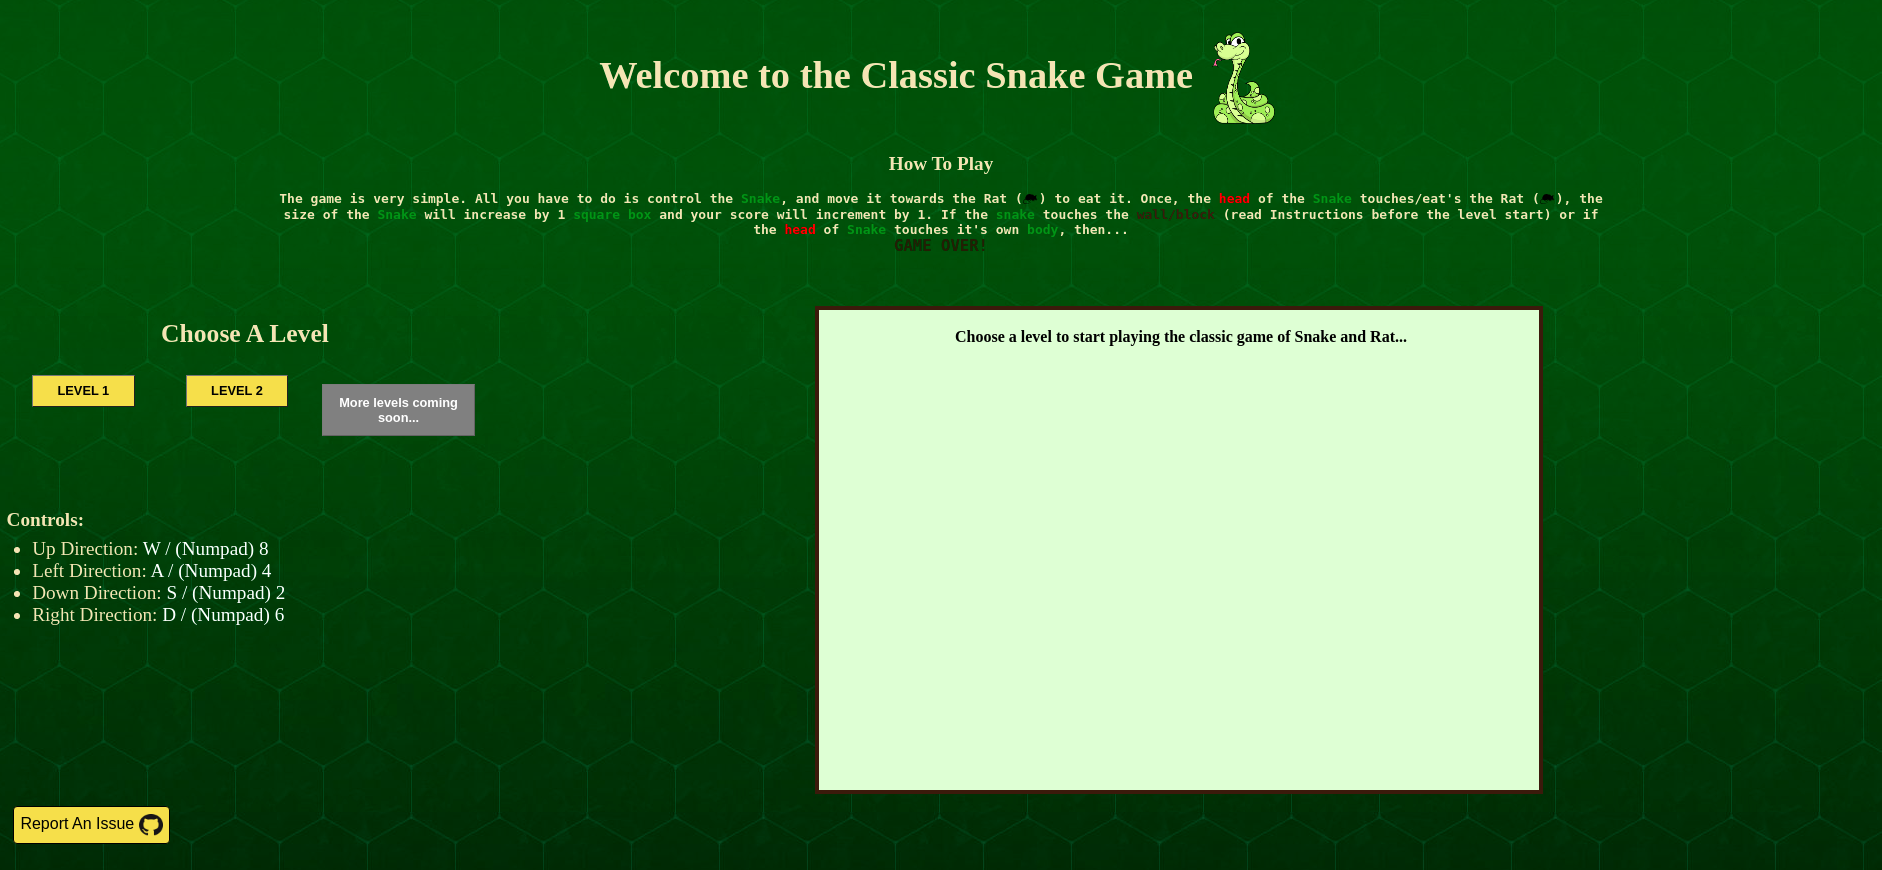
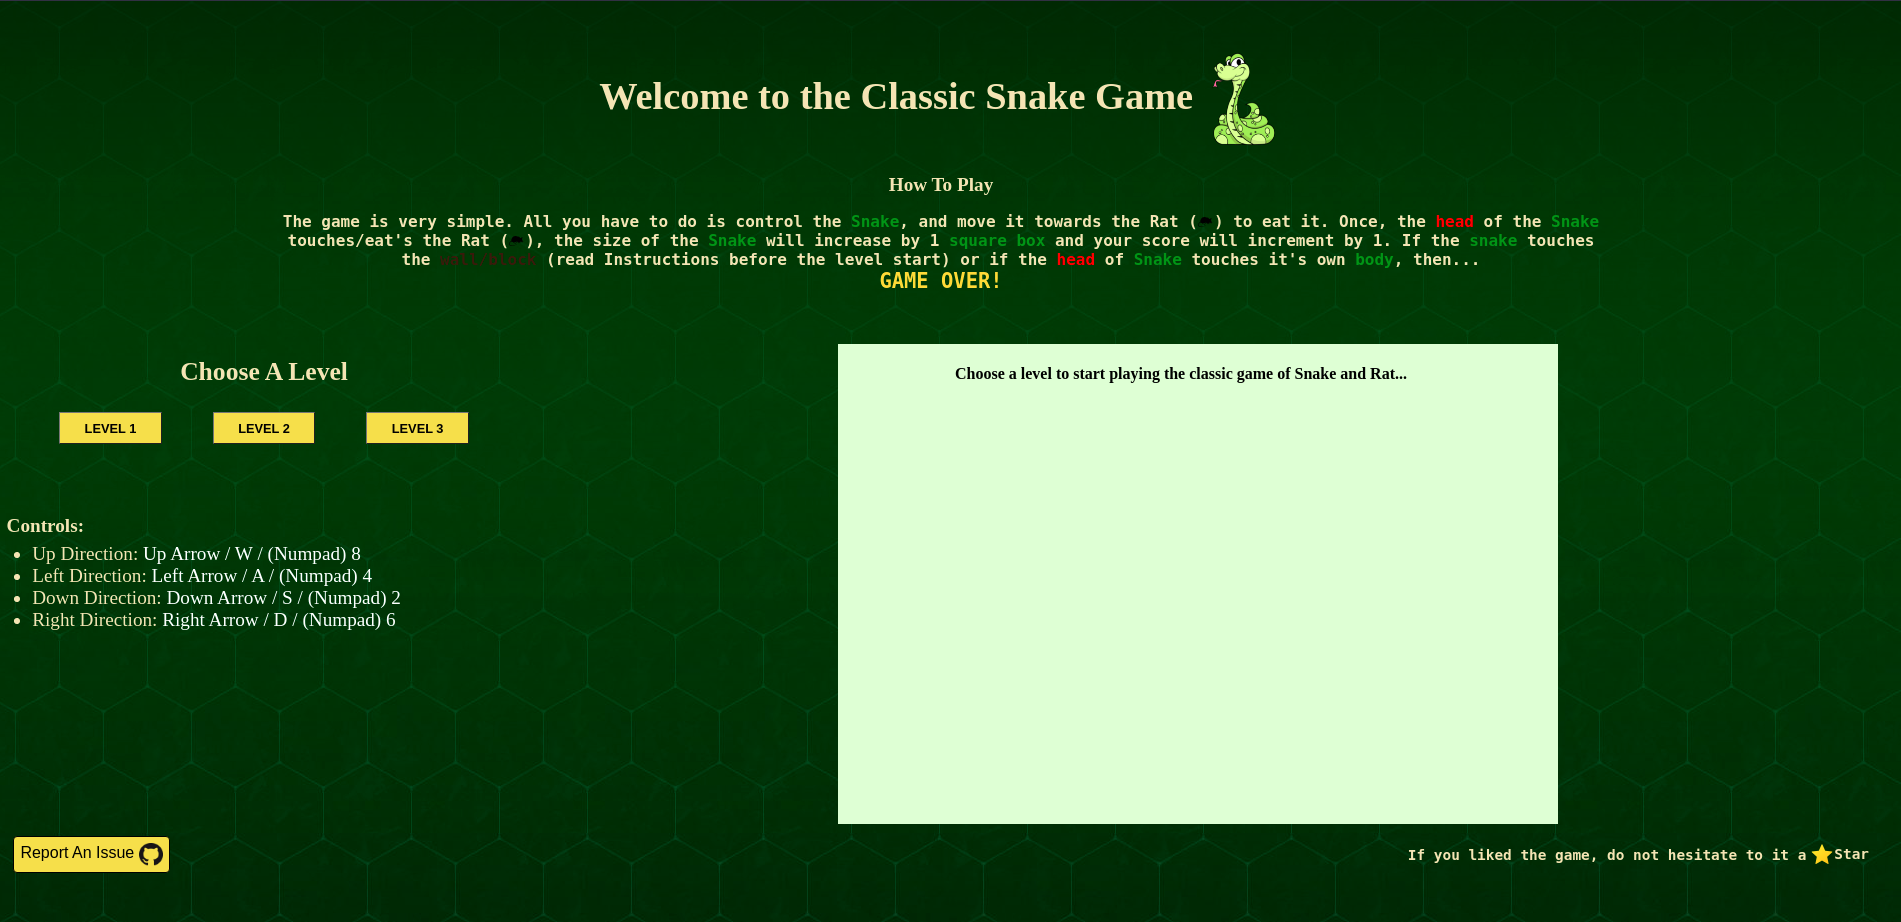
Added new level and few modifications

diff --git a/index.js b/index.js
@@ -3,15 +3,16 @@ const ctx = canvas.getContext("2d")
 const lvlBtns = document.getElementsByClassName("lvlBtn")
 const foodImg = document.getElementById("food")
 const snakeSize = 15
-const w = 900
-const h = 600
+const canvasWidth = 900
+const canvasHeight = 600
 var snake
 var score = 0
 var speed = 150
 var food, tail, snakeX, snakeY
-const levlDesc = [
+const levlDescrptn = [
     "Eat as many Rat's as possible and keep growing, but beware of eating the snake's body! You can go though the walls in this level, and we won't eliminate you :)",
-    "Eat as many Rat's as possible and keep growing, but beware of eating the snake's body, and don't hit the snake's head on the wall!"
+    "Eat as many Rat's as possible and keep growing, but beware of eating the snake's body. Game over on hitting the wall, but you can pass through the holes!",
+    "Eat as many Rat's as possible and keep growing, but beware of eating the snake's body. Game over on hitting the the wall!"
 ]
 
 function snakeHead(x, y) {
@@ -19,11 +20,11 @@ function snakeHead(x, y) {
     ctx.fillRect(x*snakeSize, y*snakeSize, snakeSize, snakeSize)
 }
 
-function snakeBody(x, y, nrw_mrgn) {
+function snakeBody(x, y, nrwMrgn) {
     ctx.fillStyle="green"
-    ctx.fillRect(x*snakeSize,y*snakeSize,snakeSize - nrw_mrgn,snakeSize - nrw_mrgn)
+    ctx.fillRect(x*snakeSize,y*snakeSize,snakeSize - nrwMrgn,snakeSize - nrwMrgn)
     ctx.strokeStyle="orange";
-    ctx.strokeRect(x*snakeSize,y*snakeSize,snakeSize - nrw_mrgn,snakeSize - nrw_mrgn)
+    ctx.strokeRect(x*snakeSize,y*snakeSize,snakeSize - nrwMrgn,snakeSize - nrwMrgn)
 }
 
 function ratFood(x,y) {
@@ -34,7 +35,7 @@ function scoreText() {
     let score_text="Rat's Eaten: " + score
     ctx.fillStyle="black"
     ctx.font="20px Georgia"
-    ctx.fillText(score_text, w - 115, 20)
+    ctx.fillText(score_text, canvasWidth - 132.5, 35)
 }
 
 function drawSnake() {
@@ -51,6 +52,7 @@ function paint(btnId) {
 
     snakeX = snake[0].x
     snakeY = snake[0].y
+    console.log("SnakeX:",snakeX, "SnakeY:", snakeY)
 
     if (direction == 'right')
         snakeX++
@@ -63,57 +65,94 @@ function paint(btnId) {
 
     switch(btnId) {
         case 'lvl1': //Through the walls 
-                    if (checkCollision(snakeX, snakeY, snake)) {
+                        if (checkCollision(snakeX, snakeY, snake)) {
+                            clearScore()
+                            gameOvr()
+                            return
+                        }
 
-                        // Hack: Clear the top-right corner score
-                        ctx.fillStyle = "#e6f7d3"
-                        ctx.fillRect(w-115, 0, 115, 60)
+                        // Update snake on passing through wall
+                        snakeXY_List = allowPassThroughWall(snakeX, snakeY)
+                        snakeX = snakeXY_List[0]
+                        snakeY = snakeXY_List[1]
+                        break
+        
+        case 'lvl2': // Game over on hitting walls, but can pass through holes
+                        if (checkCollision(snakeX, snakeY, snake) || secondLevelWallCheck(snakeX, snakeY)) {
+                            clearScore()
+                            gameOvr()
+                            return
+                        }
 
-                        gameOvr()
-                        return
-                    }
+                        // Update snake on passing through wall
+                        snakeXY_List = allowPassThroughWall(snakeX, snakeY)
+                        snakeX = snakeXY_List[0]
+                        snakeY = snakeXY_List[1]
+                        break
 
-                    if(snakeX >= w/snakeSize)
-                        snakeX = snakeX - w/snakeSize
-                    else if (snakeX < 0)
-                        snakeX = snakeX + w/snakeSize
-
-                    if(snakeY >= h/snakeSize)
-                        snakeY = snakeY - h/snakeSize
-                    else if (snakeY < 0)
-                        snakeY = snakeY + h/snakeSize
-                    break
-
-        case 'lvl2': //Game over on hitting the walls
-                    if (snakeX == -1 || snakeX == w/snakeSize || snakeY == -1 || snakeY == h/snakeSize || checkCollision(snakeX, snakeY, snake)) {
-
-                        // Hack: Clear the top-right corner score
-                        ctx.fillStyle = "#e6f7d3"
-                        ctx.fillRect(w-115, 0, 115, 60)
-
-                        gameOvr()
-                        return
-                    }
-                    break
+        case 'lvl3': //Game over on hitting the walls
+                        if ( hitBoundary(snakeX, snakeY) || checkCollision(snakeX, snakeY, snake)) {
+                            clearScore()
+                            gameOvr()
+                            return
+                        }
+                        break
+                    
     }
 
     if(snakeX == food.x && snakeY == food.y) {
         tail = {x: snakeX, y: snakeY} //Create a new head instead of moving the tail
         score ++
-        ctx.clearRect(0,0,w,h)
+        ctx.clearRect(0,0,canvasWidth,canvasHeight)
         createFood() //Create new food
     } else {
         tail = snake.pop() //pops out the last cell
         tail.x = snakeX
         tail.y = snakeY
-        ctx.clearRect(0,0,w,h)
+        ctx.clearRect(0,0,canvasWidth,canvasHeight)
+    }
+
+    // Design obstacles for different levels
+    switch(btnId) {
+        case 'lvl2': // Level with 4 holes in 4 wall
+                        ctx.fillStyle = "#6b2800"                                     //-|
+                        ctx.fillRect(0, 0, canvasWidth/2 - 30, 15)                    // |
+                        ctx.fillStyle = "#6b2800"                                     // | Top Bar
+                        ctx.fillRect(canvasWidth/2 + 15, 0, canvasWidth/2 - 15, 15)   //-|
+                        ctx.fillStyle = "#6b2800"                                     //-|
+                        ctx.fillRect(0, 0, 15, canvasHeight/2 - 30)                   // | Left Bar
+                        ctx.fillStyle = "#6b2800"                                     // |
+                        ctx.fillRect(0, canvasHeight/2 + 15, 15, canvasHeight/2 - 15) //-|
+                        ctx.fillStyle = "#6b2800"                                     //-|
+                        ctx.fillRect(0, canvasHeight - 15, canvasWidth/2 - 30, 15)    // |
+                        ctx.fillStyle = "#6b2800"                                     // | Bottom Bar
+                        ctx.fillRect(canvasWidth/2 + 15, canvasHeight - 15,           // |
+                                     canvasWidth/2 - 15, 15)                          //-|
+                        ctx.fillStyle = "#6b2800"                                     //-|
+                        ctx.fillRect(canvasWidth - 15, 0, 15, canvasHeight/2 - 30)    // |
+                        ctx.fillStyle = "#6b2800"                                     // | Right Bar
+                        ctx.fillRect(canvasWidth - 15, canvasHeight/2 + 15, 15,       // |
+                                     canvasHeight/2 - 15)                             //-|
+                        break
+
+        case 'lvl3': // Level with complete walls
+                        ctx.fillStyle = "#6b2800"                                      //-|
+                        ctx.fillRect(0, 0, canvasWidth, 15)                            //-| Top Bar
+                        ctx.fillStyle = "#6b2800"                                      //-|
+                        ctx.fillRect(0, 0, 15, canvasHeight)                           //-| Left Bar
+                        ctx.fillStyle = "#6b2800"                                      //-|
+                        ctx.fillRect(0, canvasHeight - 15, canvasWidth, 15)            //-| Bottom Bar
+                        ctx.fillStyle = "#6b2800"                                      //-|
+                        ctx.fillRect(canvasWidth - 15, 0, 15, canvasHeight)            //-| Right Bar
+                        break
     }
 
     //The snake can now eat the food.
     snake.unshift(tail) //puts back the tail as the first cell
 
     for(let i = 0; i < snake.length; i++)
-        i == 0 ? snakeHead(snake[i].x, snake[i].y) : snakeBody(snake[i].x, snake[i].y, i*0.035)
+        i == 0 ? snakeHead(snake[i].x, snake[i].y)
+               : snakeBody(snake[i].x, snake[i].y, i*0.035)
 
     ratFood(food.x, food.y)
 
@@ -137,11 +176,45 @@ function createFood() {
         snakeX = snake[i].x
         snakeY = snake[i].y
 
-        if (food.x===snakeX && food.y === snakeY || food.y === snakeY && food.x=== snakeX) {
+        if (food.x === snakeX && food.y === snakeY ||
+            food.y === snakeY && food.x === snakeX) {
             food.x = Math.floor((Math.random() * 30) + 1)
             food.y = Math.floor((Math.random() * 30) + 1)
         }
     }
+}
+
+// Update snake body after passing through wall
+
+function allowPassThroughWall(snakeX, snakeY) {
+
+    snakeXY_lst = []
+
+    // Pass through horizontal wall
+    if(snakeX >= canvasWidth/snakeSize)
+        snakeX = snakeX - canvasWidth/snakeSize
+    else if (snakeX < 0)
+        snakeX = snakeX + canvasWidth/snakeSize
+
+    // Pass through vertical wall
+    if(snakeY >= canvasHeight/snakeSize)
+        snakeY = snakeY - canvasHeight/snakeSize
+    else if (snakeY < 0)
+        snakeY = snakeY + canvasHeight/snakeSize
+
+    snakeXY_lst.push(snakeX, snakeY)
+    return snakeXY_lst
+}
+
+// Check if snake's head touches the boundary
+
+function hitBoundary(snakeX, snakeY) {
+
+    if( snakeX == 0 || snakeX == (canvasWidth/snakeSize - 1) ||
+        snakeY == 0 || snakeY == (canvasHeight/snakeSize - 1) )
+        return true
+
+    return false
 }
 
 // Check if snake touches own body
@@ -155,6 +228,31 @@ function checkCollision(x, y, array) {
     return false
 }
 
+// Second level wall check
+
+function secondLevelWallCheck(snakeX, snakeY) {
+
+    holePositionsX = canvasWidth/(snakeSize*2)
+    holePositionsY = canvasHeight/(snakeSize*2)
+
+    // Hole locations
+    topBottomHoleX = [holePositionsX - 2, holePositionsX - 1, holePositionsX]
+    topHoleY = 0
+    bottomHoleY = canvasHeight/snakeSize - 1
+    leftRightHoleY = [holePositionsY - 2, holePositionsY - 1, holePositionsY]
+    rightHoleX = canvasWidth/snakeSize - 1
+    leftHoleX = 0
+
+    if ( (topBottomHoleX.indexOf(snakeX) !== -1 && (snakeY == topHoleY || snakeY == bottomHoleY)) ||
+         (leftRightHoleY.indexOf(snakeY) !== -1 && (snakeX == leftHoleX || snakeX == rightHoleX)))
+        return false
+    else if(snakeX !== topBottomHoleX && snakeY !== leftRightHoleY &&
+            hitBoundary(snakeX, snakeY))
+        return true
+    else
+        return false
+}
+
 // Update speed with score
 
 function increaseSpeed() {
@@ -164,6 +262,15 @@ function increaseSpeed() {
         return newSpeed
     
     return 50
+}
+
+// Clear score when game ends
+
+function clearScore() {
+
+    // Hack: Clear the top-right corner score
+    ctx.fillStyle = "#e6f7d3"
+    ctx.fillRect(canvasWidth-132.5, 15, 117.5, 20)
 }
 
 
@@ -241,7 +348,7 @@ function gameOvr() {
 function resetGame() {
 
     // clear canvas
-    ctx.clearRect(0,0,w,h)
+    ctx.clearRect(0,0,canvasWidth,canvasHeight)
 
     let chseLvl = document.getElementById("chooseLvl")
     chseLvl.style.display = "block"
@@ -301,7 +408,7 @@ function beginGame(element) {
     about.style.display = "block"
     let levelId = element.id
     levelIdNum = parseInt((levelId.split('lvl'))[1])
-    about.innerHTML = levlDesc[levelIdNum - 1]
+    about.innerHTML = levlDescrptn[levelIdNum - 1]
 
     let chseLvl = document.getElementById("chooseLvl")
     chseLvl.style.display = "none"

diff --git a/style.css b/style.css
@@ -1,5 +1,5 @@
 body {
-	background:linear-gradient(0deg, rgba(0, 0, 0, 0.3), rgba(0, 0, 0, 0.6)), url(./assets/images/game_bg.jpg);
+	background:linear-gradient(0deg, rgba(0, 0, 0, 0.3), rgba(0, 0, 0, 0.8)), url(./assets/images/game_bg.jpg);
 	background-size: cover;
 	background-attachment: fixed;
 }
@@ -61,12 +61,16 @@ p img {
 	margin: 0;
 	font-size: 1.6rem;
 	font-weight: bold;
-	color: #231b03;
+	color: #ffcb2e;
+}
+
+.report-link {
+	margin-left: 2rem;
 }
 
 .reportButton {
 	display: flex;
-    margin-left: 2rem;
+	width: 100%;
 }
 
 .reportIsue {
@@ -81,9 +85,31 @@ p img {
 }
 
 .reportIsue:hover {
+	cursor: pointer;
 	background-color: rgb(120 167 44);
 	color: white;
 	box-shadow: 0px 2px 10px 0px rgba(0,0,0, 0.5);
+}
+
+.start-link {
+	color: wheat;;
+	display: flex;
+	flex: auto;
+	font-size: 18px;
+	justify-content: flex-end;
+	margin-right: 2rem;
+	align-items: center;
+}
+
+.start-link a {
+	text-decoration: none;
+	color: wheat;
+	margin-left: 5px;
+}
+
+.start-link img {
+	width: 30px;
+	margin-bottom: 3px;
 }
 
 .github {
@@ -255,7 +281,6 @@ p img {
 	width: 900px;
 	height: 600px;
 	background-color: rgb(230, 247, 211);
-	border: 5px solid rgb(56, 28, 11);
 }
 
 .canvas {

diff --git a/index.html b/index.html
@@ -32,7 +32,7 @@
 				<div class="levelButtons">
 					<button id="lvl1" class="lvlBtn" onclick="beginGame(this)">LEVEL 1</button>
 					<button id="lvl2" class="lvlBtn" onclick="beginGame(this)">LEVEL 2</button>
-					<button class="morLvl" disabled>More levels are coming soon...</button>
+					<button id="lvl3" class="lvlBtn" onclick="beginGame(this)">LEVEL 3</button>
 				</div>
 				<h2 class="controlheader">Controls:</h2>
 				<ul>
@@ -59,9 +59,12 @@
 			</div>
 		</div>
 		<div class="reportButton">
-			<a href="https://github.com/Nikhil-Ladha/Snake-Game-using-HTML-JavaScript/issues/new" target="_blank" rel="noreferrer">
+			<a class="report-link" href="https://github.com/Nikhil-Ladha/Snake-Game-using-HTML-JavaScript/issues/new" target="_blank" rel="noreferrer">
 				<button class="reportIsue">Report An Issue <img class="github" src="./assets/images/github.png" atl="Github"/></button>
 			</a>
+			<p class="start-link">If you liked the game, do not hesitate to it a 
+				<a href="https://github.com/Nikhil-Ladha/Snake-Game-using-HTML-JavaScript"><img src="assets/images/star.png"><span>Star</span></a>
+			</p>
 		</div>
 	</div>
 	<script type="text/javascript" src="index.js"></script>
